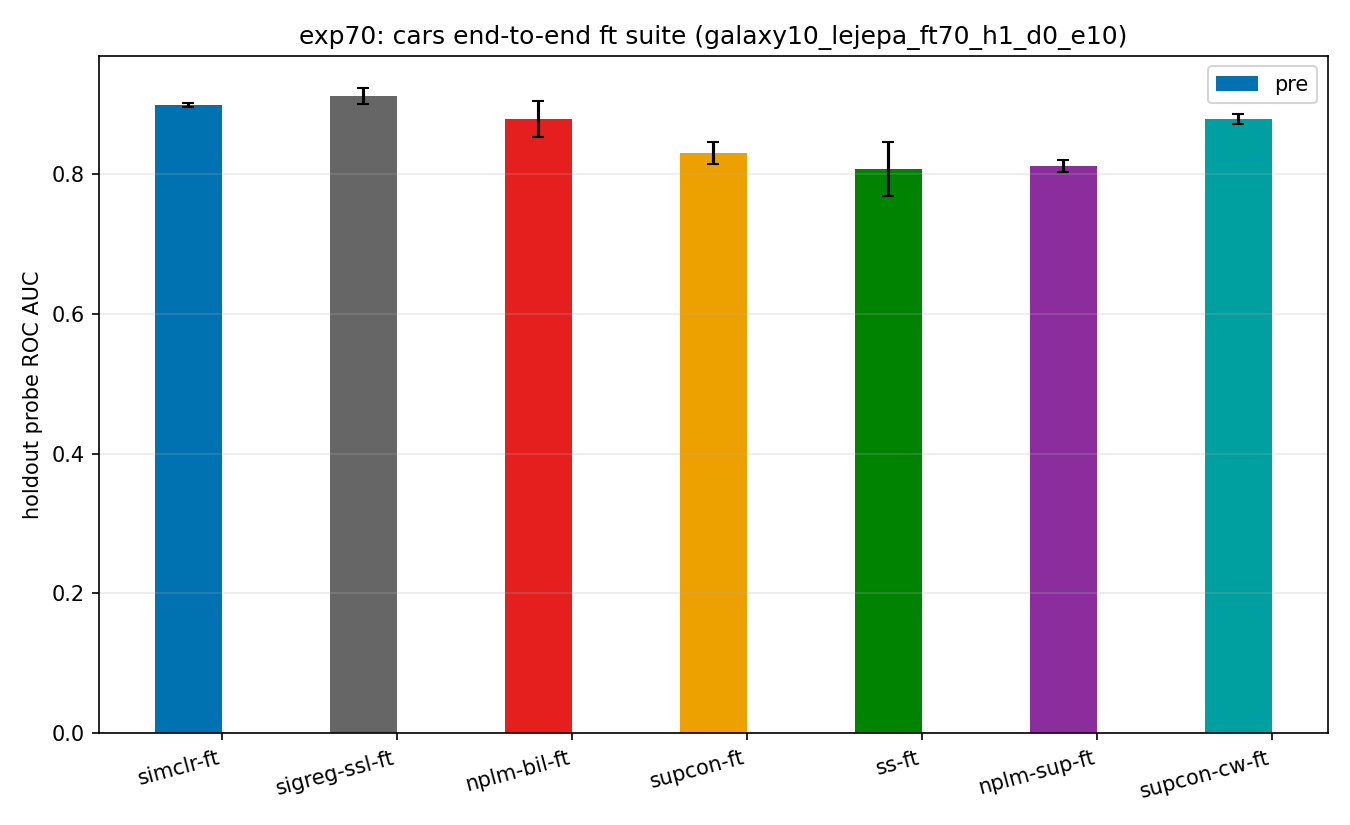
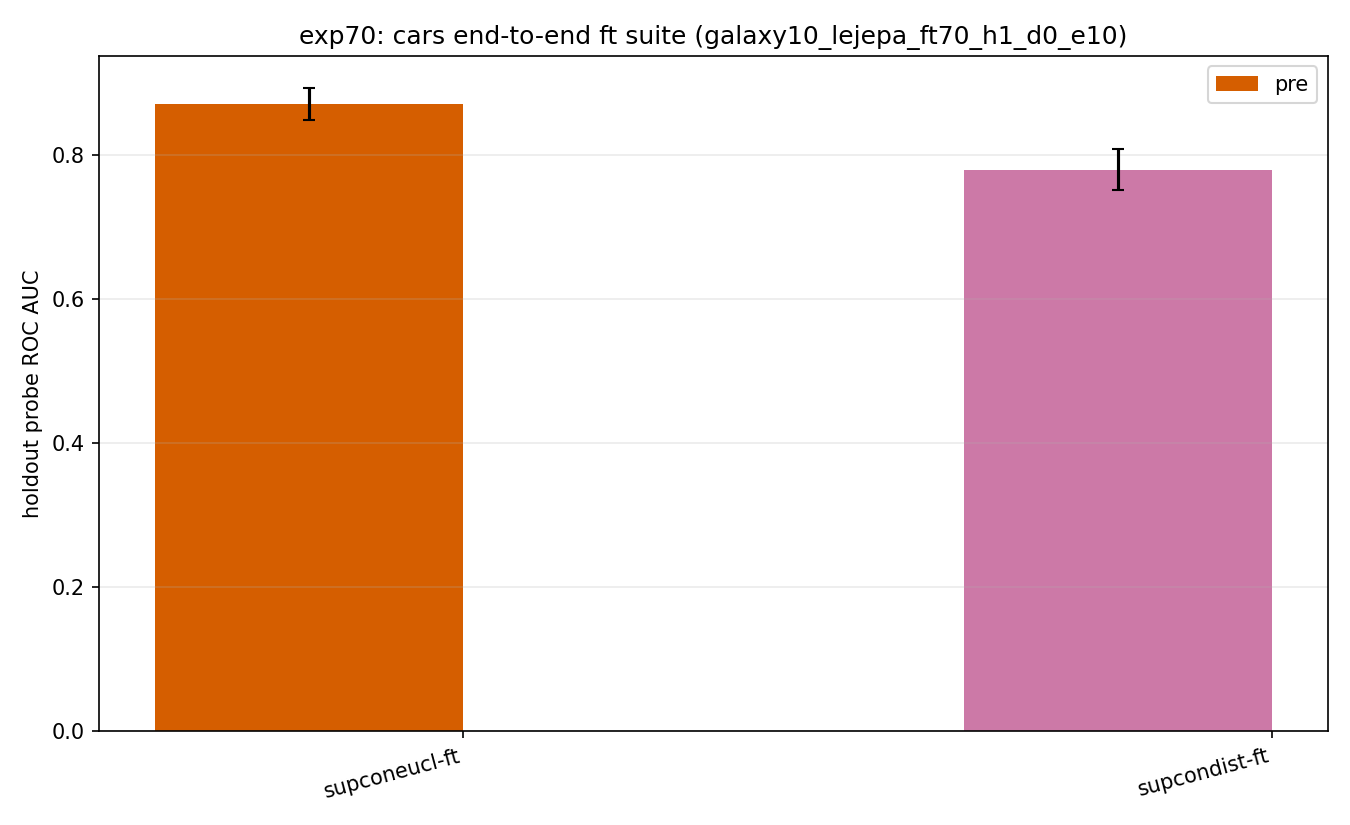
updating plots

diff --git a/experiments/70_cars_ft_suite.py b/experiments/70_cars_ft_suite.py
@@ -44,7 +44,7 @@ matplotlib.use("Agg")
 import matplotlib.pyplot as plt
 
 from supersig.config import DATA_DIR, DEVICE, REPO_DIR, plot_path
-from supersig.losses import sigreg_loss, supcon_loss
+from supersig.losses import sigreg_loss, supcon_loss, HybridContrastiveLoss
 from supersig.metrics import gaussianity_summary
 from supersig.discovery import run_discovery
 from supersig.train import collect_embeddings
@@ -75,6 +75,23 @@ def make_supcon_step(lam_sigreg, n_slices):
         con = supcon_loss(F.normalize(z, dim=1), yy, temp=0.1)
         reg = (lam_sigreg * sigreg_loss(z, n_slices=n_slices) if lam_sigreg
                else torch.zeros((), device=DEVICE))
+        return con, reg
+    return step
+
+
+def make_hybrid_ft_step(critic, lam_sigreg, tau, n_slices):
+    """SupCon softmax on a RAW-geometry critic (bilinear|distance; NO
+    F.normalize) + lam*SIGReg -- the exp-168 normalization-free arms, but with
+    the ViT trunk fine-tuned end-to-end (not head-only)."""
+    hyb = HybridContrastiveLoss(positives="supervised", critic=critic,
+                                estimator="softmax", marginal="none",
+                                tau=tau, n_slices=n_slices)
+    def step(model, v1, v2, y):
+        x = torch.cat([v1, v2]).to(DEVICE, non_blocking=True)
+        yy = torch.cat([y, y]).to(DEVICE)
+        z = model(x).float()
+        con = hyb.interaction(z, yy)
+        reg = lam_sigreg * sigreg_loss(z, n_slices=n_slices)
         return con, reg
     return step
 
@@ -174,6 +191,10 @@ def arm_specs(args):
         "supcon-cw-ft": (True, make_supcon_cw_step(
             5.0, args.n_slices, 47 if DS == "dtd" else exp44.N_CLASSES[DS],
             args.emb_dim, 5.0)),
+        "supconeucl-ft": (True, make_hybrid_ft_step(
+            "bilinear", 5.0, args.tau, args.n_slices)),
+        "supcondist-ft": (True, make_hybrid_ft_step(
+            "distance", 5.0, args.tau, args.n_slices)),
     }
 
 
@@ -181,10 +202,11 @@ COLORS = {"simclr-ft": "#0072b2", "sigreg-ssl-ft": "#666666",
           "nplm-bil-ft": "#e51e1e", "supcon-ft": "#eda100",
           "ss-ft": "#008300", "nplm-sup-ft": "#8c2d9e",
           "gcd-ft": "#8b4513", "gcd-sigreg-ft": "#c71585",
-          "supcon-cw-ft": "#00a0a0"}
+          "supcon-cw-ft": "#00a0a0", "supconeucl-ft": "#d55e00",
+          "supcondist-ft": "#cc79a7"}
 # supcon-cw-ft is opt-in like the GCD arms: never in the default arm set,
 # so archived six-arm reruns stay byte-identical.
-OPT_IN_ARMS = {"supcon-cw-ft"}
+OPT_IN_ARMS = {"supcon-cw-ft", "supconeucl-ft", "supcondist-ft"}
 
 
 def eval_split(split, transform):
